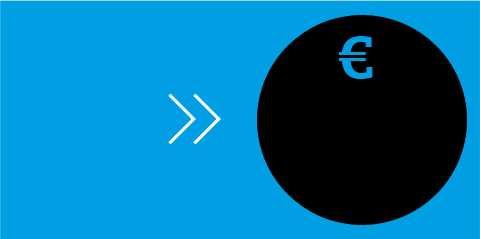
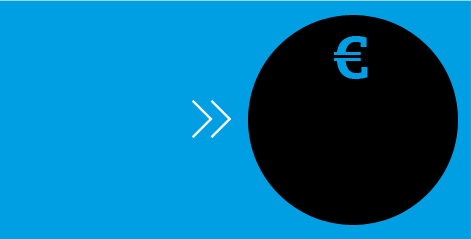
new homepage layout

diff --git a/php/wordpress/css/style.css b/php/wordpress/css/style.css
@@ -1,4 +1,4 @@
-body 
+body 
 {
   background-image:url('../images/global/bg.png');
   font-family:arial;margin-top:30px;
@@ -18,11 +18,18 @@
 .master-logo-holder .menu ul {margin: 0;margin-left:2px;padding: 0px 0px 0px 0px;list-style: none;line-height: 16px;}
 .master-logo-holder .menu ul li a{color:#b6b4b4;font-family:Arial;font-size:11px;text-decoration:none;padding-left:10px;padding-right:10px;margin-left:-10px}
 .master-logo-holder .menu ul li a:hover{color:white;font-family:Arial;font-size:11px;text-decoration:none;background-color:#009fe3;width:200px;padding-left:10px;padding-right:10px;margin-left:-10px}
-
+.master-logo-holder-new{width:474px;height:238px;background-color:White;float:left}
+.master-logo-holder-new .logo{padding:0px 30px 0px 20px;float:left;margin-top:-117px}
+.master-logo-holder-new .menu{float:left;padding-top:6px;margin-top:-117px}
+.master-logo-holder-new .menu ul {margin: 0;margin-left:2px;padding: 0px 0px 0px 0px;list-style: none;line-height: 16px;}
+.master-logo-holder-new .menu ul li a{color:#b6b4b4;font-family:Arial;font-size:11px;text-decoration:none;padding-left:10px;padding-right:10px;margin-left:-10px}
+.master-logo-holder-new .menu ul li a:hover{color:white;font-family:Arial;font-size:11px;text-decoration:none;background-color:#009fe3;width:200px;padding-left:10px;padding-right:10px;margin-left:-10px}
 .master-black-hole{width:479px;height:238px;float:left;background-image:url('../images/global/blackhole.png');}
-.master-black-hole .text{font-family:'Open Sans', sans-serif;font-size:30px;color:White;width:120px;padding:31px 105px 0px 30px;float:left;line-height:36px}
+.master-black-hole .text{font-family:'Open Sans', sans-serif;font-size:30px;color:White;width:122px;padding:31px  105px 0px 30px;float:left;line-height:36px}
 .master-black-hole .money{float:left;font-family:'Open Sans', sans-serif;font-size:45px;color:White;width:205px;padding-top:95px;text-align:center}
-
+.master-black-hole-new{width:471px;height:238px;float:left;background-image:url('../images/global/blackhole.png');margin-left:12px}
+.master-black-hole-new .text{font-family:'Open Sans', sans-serif;font-size:30px;color:White;width:150px;padding:18px 65px 0px 30px;float:left;line-height:36px}
+.master-black-hole-new .money{float:left;font-family:'Open Sans', sans-serif;font-size:45px;color:White;width:205px;padding-top:85px;text-align:center}
 .home-left{float:left;padding-top:14px}
 .home-left a{text-decoration:none}
 .home-right{float:left}
@@ -59,15 +66,15 @@
 
 .home-bottom{padding-top:8px}
 .home-video{padding-top:14px;width:715px;height:414px}
-.footer{text-align:center;color:#8c8b8b;font-size:12px;font-family:Arial;background-image:url('../images/global/footer.png');background-repeat:repeat-x;line-height:37px}
-.footer a{color:#8c8b8b;font-size:12px;text-decoration:none;font-family:Arial}
+.home-video-new{padding-top:14px;width:474px;height:414px}
+.footer{text-align:center;color:#4f4f4f;font-size:12px;font-family:Arial;background-image:url('../images/global/footer.png');background-repeat:repeat-x;line-height:37px}
+.footer a{color:#4f4f4f;font-size:12px;text-decoration:none;font-family:Arial}
 .footer a:hover{text-decoration:underline}
-.social{margin-left:-36px;width:36px;height:111px;background-image:url('../images/global/social.png');margin-top:16px}
-.social .fb{padding-top:11px;padding-left:6px;}
-.social .tw{padding-top:11px;padding-left:6px;}
-.social .mail{padding-top:11px;padding-left:8px;}
-
-
+.social{margin-left:-36px;width:36px;height:127px;background-image:url('../images/global/social.png');}
+.social .fb{padding-top:7px;padding-left:6px;}
+.social .tw{padding-top:7px;padding-left:6px;}
+.social .bb{padding-top:7px;padding-left:6px;}
+.social .mail{padding-top:7px;padding-left:6px;}
 .content{width:896px;background-color:White;margin-top:28px;margin-bottom:26px;padding:31px 31px 31px 31px}
 .content h1{margin:0px;font-family:'Open Sans', sans-serif;font-size:24px;color:#009fe3;margin-top:-7px}
 .content .subtext{font-family:'Open Sans', sans-serif;font-size:16px;color:#010100;line-height:18px;padding-top:10px}
@@ -213,7 +220,35 @@
 .popup-holder{width:550px;height:360px;overflow-x:hidden;margin:10px;font-family:Arial;font-size:12px;color:#010100;text-align:left;line-height:18px;}
 
 .popup-holder .jspDrag{opacity: 1;filter:alpha(opacity=100);background:#009fe3}
+.home-btn-center{text-align:center;padding-top:15px}
+.home-bluebox-new{width:230px;height:200px;background-image:url('../images/home/bluebox.png');background-repeat:no-repeat;margin:0px 0px 11px 12px;}
+.home-bluebox-new .img{text-align:center;padding-bottom:20px}
+.home-bluebox-new .title{text-align:center;font-family:'Open Sans', sans-serif;font-size:23px;color:White;font-weight:bold;line-height:29px}
+.home-bluebox-new .text{text-align:center;font-family:'Open Sans', sans-serif;font-size:14px;color:White;padding-top:22px}
+.home-bluebox-new .img-big{text-align:center;padding-bottom:15px}
+.home-bluebox-new .text-big{text-align:center;font-family:'Open Sans', sans-serif;font-size:14px;color:White;padding-top:8px}
+.home-bluebox-new-over{width:230px;height:200px;background-image:url('../images/home/blueboxover.png');background-repeat:no-repeat;margin:0px  0px 11px  12px;}
+.home-bluebox-new-over .img{text-align:center;padding-bottom:20px}
+.home-bluebox-new-over .title{text-align:center;font-family:'Open Sans', sans-serif;font-size:23px;color:White;font-weight:bold;line-height:29px}
+.home-bluebox-new-over .text{text-align:center;font-family:'Open Sans', sans-serif;font-size:14px;color:White;padding-top:22px}
+.home-bluebox-new-over .img-big{text-align:center;padding-bottom:10px}
+.home-bluebox-new-over .text-big{text-align:center;font-family:'Open Sans', sans-serif;font-size:14px;color:White;padding-top:8px}
 
+.home-bluebox-small-new
+{width:229px;height:94px;background-image:url('../images/home/bluebox-small.png');background-repeat:no-repeat;margin:0px  0px 11px  12px;
+}
 
+.home-bluebox-small-new .img{padding-top:32px;width:65px;padding-left:10px;float:left;}
+.home-bluebox-small-new .img-earth{padding-top:22px;width:65px;padding-left:10px;float:left;}
+.home-bluebox-small-new .text{float:left;width:130px;text-align:center;font-family:'Open Sans', sans-serif;font-size:23px;color:White;font-weight:bold;line-height:29px;padding-right:9px; padding-top:15px}
+.home-bluebox-small-new .img-nea{padding-top:32px;width:50px;padding-left:10px;float:left;}
+.home-bluebox-small-new .text-nea{float:left;width:147px;text-align:left;font-family:'Open Sans', sans-serif;font-size:23px;color:White;font-weight:bold;line-height:29px; padding-top:35px}
 
-
+.home-bluebox-small-new-over
+{width:229px;height:94px;background-image:url('../images/home/bluebox-smallover.jpg');background-repeat:no-repeat;margin:0px  0px 11px  12px;
+}
+.home-bluebox-small-new-over .img{padding-top:32px;width:65px;padding-left:10px;float:left;}
+.home-bluebox-small-new-over .img-earth{padding-top:22px;width:65px;padding-left:10px;float:left;}
+.home-bluebox-small-new-over .text{float:left;width:130px;text-align:center;font-family:'Open Sans', sans-serif;font-size:23px;color:White;font-weight:bold;line-height:29px;padding-right:9px; padding-top:15px}
+.home-bluebox-small-new-over .img-nea{padding-top:32px;width:50px;padding-left:10px;float:left;}
+.home-bluebox-small-new-over .text-nea{float:left;width:147px;text-align:left;font-family:'Open Sans', sans-serif;font-size:23px;color:White;font-weight:bold;line-height:29px; padding-top:35px}

diff --git a/php/wordpress/js/global.js b/php/wordpress/js/global.js
@@ -13,6 +13,22 @@
         $(this).addClass('home-bluebox').removeClass('home-bluebox-over')
     });
 
+    $('.home-bluebox-new').mouseover(function () {
+        $(this).addClass('home-bluebox-new-over').removeClass('home-bluebox-new')
+    });
+    $('.home-bluebox-new').mouseout(function () {
+        $(this).addClass('home-bluebox-new').removeClass('home-bluebox-new-over')
+    });
+
+
+    $('.home-bluebox-small-new').mouseover(function () {
+        $(this).addClass('home-bluebox-small-new-over').removeClass('home-bluebox-small-new')
+    });
+    $('.home-bluebox-small-new').mouseout(function () {
+        $(this).addClass('home-bluebox-small-new').removeClass('home-bluebox-small-new-over')
+    });
+
+
 
     $('.home-bluebox-last').mouseover(function () {
         $(this).addClass('home-bluebox-last-over').removeClass('home-bluebox-last')
@@ -47,6 +63,13 @@
     });
     $('.social .mail img').mouseout(function () {
         $(this).attr("src", "images/global/mail.png")
+    });
+
+    $('.social .bb img').mouseover(function () {
+        $(this).attr("src", "images/global/bon.png")
+    });
+    $('.social .bb img').mouseout(function () {
+        $(this).attr("src", "images/global/b.png")
     });
 
 

diff --git a/php/wordpress/wp-content/themes/pavlatheme/home.php b/php/wordpress/wp-content/themes/pavlatheme/home.php
@@ -7,45 +7,79 @@ get_header();
 
         
         <div class="home-right">
-            <div class="home-video">
-                <iframe src="http://player.vimeo.com/video/33000354" width="715" height="410" frameborder="0" webkitAllowFullScreen mozallowfullscreen allowFullScreen></iframe>
+              <div class="home-video-new">
+                <iframe src="http://player.vimeo.com/video/33000354" width="474" height="410" frameborder="0" webkitAllowFullScreen mozallowfullscreen allowFullScreen></iframe>
 
             </div>
-            <div class="home-bottom">
-                <a title="Πρώτοι με διαφθορά!" href="?cat=12"><div class="home-bluebox-last left">
-                    <div class="img-big"><img border="0" src="images/home/protathlites.png" /></div>
-                    <div class="title">Πρώτοι με... διαφθορά!</div>
-                    <div class="text">Οι κακοί πρωταθλητές μας</div>
-                </div></a> 
-                <a title="Χρειάζομαι βοήθεια" href="qa" target="_blank"><div class="home-bluebox left">
-                    <div class="img-big"><img border="0" src="images/home/needhelp.png" /></div>
-                    <div class="title">Χρειάζομαι βοήθεια</div>
-                    <div class="text-big">Συζήτησε και ενημερώσου <br />για το πρόβλημα</div>
-                </div></a> 
-                <a title="Τα καλά νέα!" href="?cat=14"><div class="home-bluebox left">
-                    <div class="img"><img border="0" src="images/home/goodnews.png" /></div>
-                    <div class="title">Τα καλά νέα!</div>
-                    <div class="text">Περιστατικά που αξίζουν επιβράβευση</div>
-                </div></a> 
+            <div class="home-bottom" style="display:none">
+
                 <div class="clear"></div>
             </div>
         </div>
-        <div class="home-left">
-            <a title="Τι μπορώ να κάνω" href="?page_id=31"><div class="home-bluebox">
-                <div class="img"><img border="0" src="images/home/dikaiomata.png" /></div>
-                <div class="title">Τι μπορώ <br />να κάνω;</div>
-                <div class="text-big">Βοήθησέ μας να <br />σταματήσουμε τη διαφθορά</div>
-            </div></a>
-            <a title="Έχει συμβεί και σε μένα!" href="?cat=16"><div class="home-bluebox">
-                <div class="img-big"><img border="0" src="images/home/happenttome.png" /></div>
-                <div class="title">Έχει συμβεί<br />και σε μένα!</div>
-                <div class="text-big">Πες ανώνυμα τη δική σου<br />καλή ή κακή εμπειρία</div>
-            </div></a> 
-            <a title="Δες που συμβαίνει" href="?cat=15"><div class="home-bluebox">
-                <div class="img-big"><img border="0" src="images/home/peristatika.png" /></div>
-                <div class="title">Δες που<br />συμβαίνει</div>
-                <div class="text-big">Περιοχές με τα περισσότερα περιστατικά</div>
-            </div></a> 
+   
+		 <div class="home-left">
+	            <div class="left">
+	                <a title="Κάνε κάτι γι’ αυτό!" href="?cat=16"><div class="home-bluebox-new">
+	                <div class="img"><img border="0" src="images/home/happenttome.png" /></div>
+	                <div class="title">Κάνε κάτι γι’ αυτό!</div>
+	                <div class="home-btn-center"><img src="images/home/btnkataggileto.png" /></div>
+	                 </div>
+	                </a> 
+	             </div>
+	            <div class="left">
+	                <a title="Πρώτοι με διαφθορά!" href="?cat=12">
+	                <div class="home-bluebox-small-new">
+	                    <div class="img"><img src="images/home/home-letter.png" /></div>
+	                    <div class="text">Πρώτοι με διαφθορά!</div>
+	                     <div class="clear"></div>
+	                </div>
+	               </a>
+	                 <div class="clear"></div>
+	                <a title="Δες που συμβαίνει" href="?cat=15">
+	                <div class="home-bluebox-small-new">
+	                    <div class="img-earth"><img src="images/home/home-earth.png" /></div>
+	                    <div class="text">Δες που συμβαίνει</div>
+	                     <div class="clear"></div>
+	                </div>
+	               </a>
+	            </div>
+	           <div class="clear"></div>
+	            <div>
+	                <a title="Μάθε για εμάς" href="page_id=3">
+	                <div class="home-bluebox-small-new left">
+	                    <div class="img"><img src="images/home/home-people.png" /></div>
+	                    <div class="text">Μάθε για εμάς</div>
+	                     <div class="clear"></div>
+	                </div>
+	                </a>
+	                 <a title="Τα καλά νέα!" href="?cat=14">
+	                <div class="home-bluebox-small-new left">
+	                    <div class="img-nea"><img src="images/home/home-info.png" /></div>
+	                    <div class="text">Τα καλά νέα!</div>
+	                     <div class="clear"></div>
+	                </div>
+	                </a>
+	                <div class="clear"></div>
+	            </div>
+	            <div>
+	                 <a title="Χρειάζομαι βοήθεια" href="qa" target="_blank">
+	                <div class="home-bluebox-small-new left">
+	                    <div class="img"><img src="images/home/home-help.png" /></div>
+	                    <div class="text">Χρειάζομαι βοήθεια</div>
+	                     <div class="clear"></div>
+	                </div>
+	                 </a>
+	                <a title="Συχνές Ερωτήσεις" href="?page_id=91">
+	                <div class="home-bluebox-small-new left">
+	                    <div class="img"><img src="images/home/home-cloud.png" /></div>
+	                    <div class="text">Συχνές ερωτήσεις</div>
+	                     <div class="clear"></div>
+	                </div>
+	                </a>
+	                <div class="clear"></div>
+	            </div> 
+
+
         </div>
         <div class="clear"></div>
 <?php

diff --git a/php/wordpress/wp-content/themes/pavlatheme/header.php b/php/wordpress/wp-content/themes/pavlatheme/header.php
@@ -58,14 +58,19 @@
     <div class="master">
 	
 	    <div id="Header">
-            <div class="master-logo-holder">
+		
+		    <div class="master-logo-holder-new">
             <!--Social Start        -->
                 <div class="social">
                     <div class="fb"><a target="_blank" href="http://www.facebook.com/share.php?u=http://www.teleiakaipavla.gr"><img border="0" src="images/global/facebook.png" /></a></div>
                     <div class="tw"><a target="_blank" href="http://twitter.com/home?status=http://www.teleiakaipavla.gr"><img border="0" src="images/global/twitter.png" /></a></div>
+                    <div class="bb"><a href="#"><img border="0" src="images/global/b.png" /></a></div>
                     <div class="mail"><a href="mailto:info@teleiakaipavla.gr"><img border="0" src="images/global/mail.png" /></a></div>
                 </div>
+
             <!--Social End        -->
+		
+
                 <div class="logo"><a href="<?php echo get_option( 'home' ); ?>"><img border="0" src="images/global/logo.png" /></a></div>
                 <div class="menu">
                     <ul id="menu">
@@ -76,8 +81,8 @@
                 </div>
                 <div class="clear"></div>
             </div>
-            <div class="master-black-hole">
-                <div class="text">Xρήμα που <b>χάθηκε</b><br />στη μαύρη τρύπα!</div>
+           <div class="master-black-hole-new">
+                <div class="text">Xρήμα που <b>χάθηκε</b> στη μαύρη τρύπα!</div>
                 <div class="money"></div>
                 <div class="clear"></div>
             </div>

diff --git a/php/wordpress/wp-content/themes/pavlatheme/footer.php b/php/wordpress/wp-content/themes/pavlatheme/footer.php
@@ -1,6 +1,6 @@
 <!--Footer Start        -->
     <div class="footer">
-        Copyright 2012  |  <a href="?page_id=9" title="Σχετικά με τη δράση">Σχετικά με τη δράση</a>  |  <a href="?page_id=7" title="Όροι χρήσης">Όροι χρήσης</a>  |  <a href="?page_id=5" title="Προσωπικά δεδομένα">Προσωπικά δεδομένα</a>
+        Copyright 2012  |  <a href="?page_id=9" title="Σχετικά με τη δράση">Σχετικά με τη δράση</a>  |  <a href="?page_id=7" title="Όροι χρήσης">Όροι χρήσης</a>  |  <a href="?page_id=5" title="Προσωπικά δεδομένα">Προσωπικά δεδομένα</a>  |  <a href="?page_id=91" title="Συχνές ερωτήσεις">Συχνές ερωτήσεις</a>
     </div>
 <!--Footer End        -->
     </div>

diff --git a/php/wordpress/wp-content/themes/pavlatheme/category-20.php b/php/wordpress/wp-content/themes/pavlatheme/category-20.php
@@ -2,8 +2,8 @@
 <?php
 get_header();
 ?>
-<div class="">
-    <iframe src="../backkick/incidents/search.html" width="100%" height="870" frameborder="0" >
+<div class="text">
+    <iframe src="http://www.teleiakaipavla.gr/backkick/incidents/search.html" width="100%" height="870" frameborder="0" >
     
     </iframe>
 
